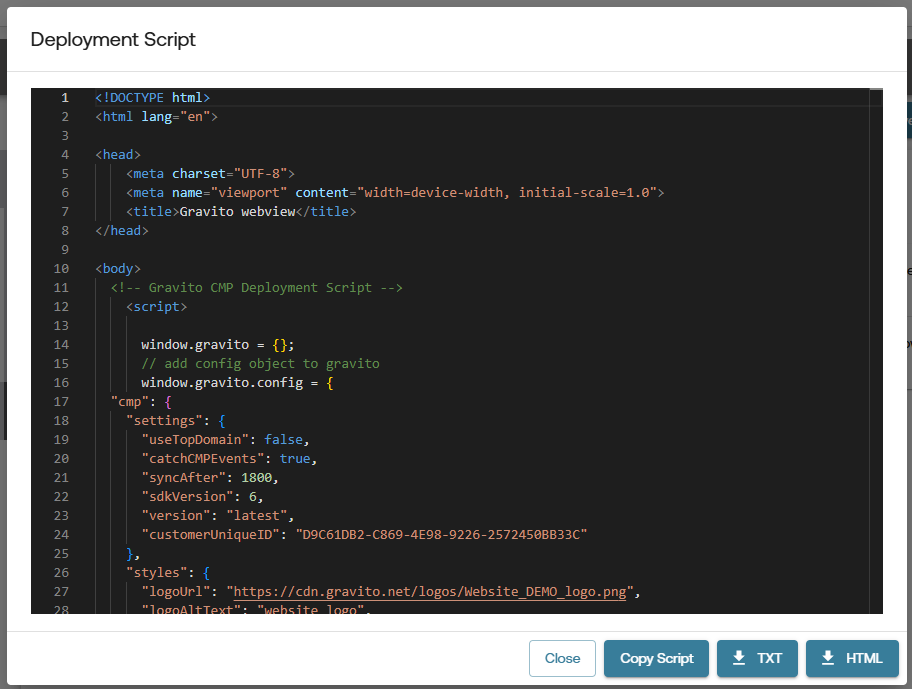
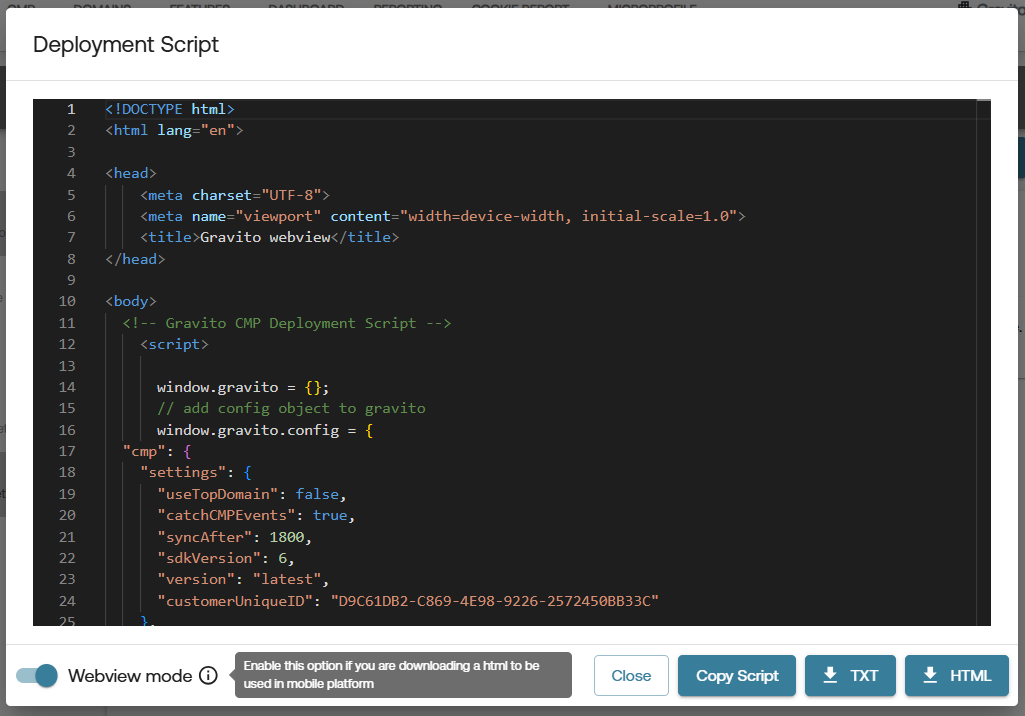
Update deployment instructions and images for webview integration

diff --git a/docs/Gravito_V6_CMP/Deployment.md b/docs/Gravito_V6_CMP/Deployment.md
@@ -94,7 +94,7 @@ Utilize the deployment script to efficiently incorporate Gravito's CMP into your
 
     ![](./img/script_deployment1.png)
 
-2. if the validation and publishing is successful, you will get an option to **Generate Deployment Script** and **Download Config**.
+2. if the validation and publishing is successful, you will get an option to **Generate Deployment Script**.
 
     ![](./img/script_deployment2.png)
 
@@ -105,11 +105,14 @@ Utilize the deployment script to efficiently incorporate Gravito's CMP into your
 ## 4. [Webview for Mobile apps](#webview)
 Gravito CMP (New) can be integrated into mobile applications using a webview. This allows you to display the CMP within your app, providing a consistent user experience across platforms. Please follow the steps below to deploy using the webview:
 
-1. First, select any of the above deployment methods (GTM, WordPress Plugin, or Deployment Script) to publish your CMP configuration.
-2. Once published, you can generate a webview script by clicking on the **Generate Webview Script** button in the Deployment tab.
+1. First, select `Deployment Script` as deployment method to publish your CMP configuration.
+
+    ![](./img/script_deployment1.png)
+
+2. Once published, click on the **Generate Deployment Script** button to generate the deployment script.
 
     ![](./img/script_deployment2.png)
 
-3. This will open a modal with the generated webview script as shown in the image below. You can download this script as `html` and host it on you server or CDN and use it in your mobile app's webview.
+3. This will open a modal with the generated deployment script. Now you can activate **Webview mode** toggle to generate the webview script and download it as a `HTML` file.
 
     ![](./img/webview_script.png)
